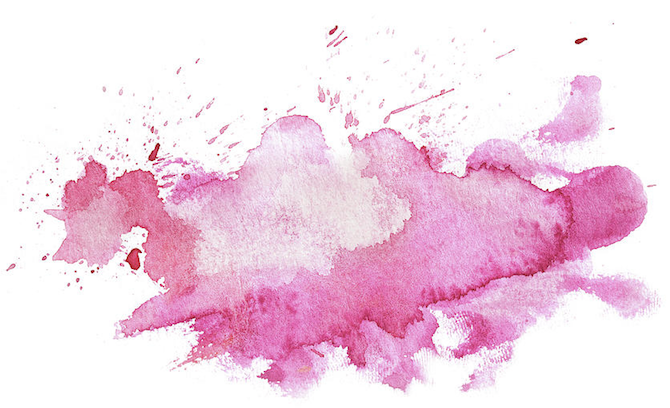
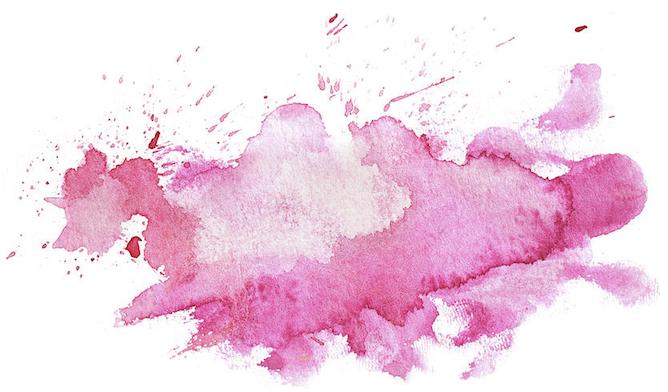
2 extra watermarks added

diff --git a/src/components/NavBar.styles.js b/src/components/NavBar.styles.js
@@ -18,56 +18,51 @@ export const styles = theme => ({
         marginTop: '15vh',
         position: "absolute",
         zIndex: "5",
-        // cursor: "pointer",
-        // transition: "all .2s ease-in-out",
-        // "&:hover": {
-        //     transform: "scale(1.1)",
-        // },
     },
     categoryOneImage: {
-        width: "14%",
-        marginTop: '11vh',
+        width: "18%",
+        marginTop: '8vh',
         position: "absolute",
         zIndex: "7",
         cursor: "pointer",
         transition: "all .2s ease-in-out",
-        marginLeft: "24vw",
+        marginLeft: "22vw",
         "&:hover": {
             transform: "scale(1.1)",
         },
     },
     categoryName: {
         fontFamily: "Caveat, cursive",
-        marginTop: '17vh',
-        fontSize: "32px",
+        marginTop: '16vh',
+        fontSize: "36px",
         position: "absolute",
-        marginLeft: "23vw",
+        marginLeft: "22vw",
         zIndex: "10",
         cursor: "pointer",
         transition: "all .2s ease-in-out",
         "&:hover": {
             transform: "scale(1.1)",
-            fontSize: "34px",
+            fontSize: "38px",
         },
     },
     categoryTwoImage: {
         width: "22%",
-        marginTop: '68vh',
+        marginTop: '66vh',
         position: "absolute",
         zIndex: "7",
         cursor: "pointer",
         transition: "all .2s ease-in-out",
-        marginLeft: "70vw",
+        marginLeft: "68vw",
         "&:hover": {
             transform: "scale(1.1)",
         },
     },
     categoryNameTwo: {
         fontFamily: "Caveat, cursive",
-        marginTop: '77vh',
+        marginTop: '75vh',
         fontSize: "54px",
         position: "absolute",
-        marginLeft: "71vw",
+        marginLeft: "69vw",
         zIndex: "10",
         cursor: "pointer",
         transition: "all .2s ease-in-out",
@@ -75,6 +70,21 @@ export const styles = theme => ({
             transform: "scale(1.1)",
             fontSize: "56px",
         },
+    },
+    categoryThreeImage: {
+        marginTop: '32vh',
+        position: "absolute",
+        zIndex: "7",
+        marginLeft: "70vw",
+        width: "10vw"
+    },
+    categoryFourImage: {
+        width: "34vh",
+        marginTop: '45vh',
+        position: "absolute",
+        zIndex: "7",
+        marginLeft: "16vw",
+        transform: "rotate(-45deg)"
     },
     name: {
         fontFamily: "Caveat, cursive",
@@ -130,7 +140,13 @@ export const styles = theme => ({
         justifyContent: "space-between"
     },
     icon: {
-        color: "rgb(28, 58, 228, .7)",
-        fontSize: "5vh"
+        color: "rgba(0,0,0,0.7)",
+        backgroundImage: "linear-gradient(to right, #e7fcfd, #10cfd5)",
+        fontSize: "5vh",
+        borderRadius: "5px",
+        transition: "all .2s ease-in-out",
+        "&:hover": {
+            transform: "scale(1.1)",
+        },
     }
 })

diff --git a/src/components/CategoryThree.jsx b/src/components/CategoryThree.jsx
@@ -1,0 +1,29 @@
+import React, { Component } from 'react';
+
+// MUI
+import { withStyles } from '@material-ui/core/styles';
+
+// Local
+import { styles } from "./NavBar.styles.js";
+
+class CategoryThree extends Component {
+    constructor(props) {
+        super(props);
+        this.state = {
+
+        }
+    }
+
+    render() {
+        const { classes } = this.props;
+
+        return (
+            <div>
+                <img className={classes.categoryThreeImage} src={require('./smallBlue.png')} alt="Other" />
+                {/* <span className={classes.categoryThreeName}>Professional Background</span> */}
+            </div>
+        );
+    }
+}
+
+export default withStyles(styles)(CategoryThree);

diff --git a/src/components/CategoryFour.jsx b/src/components/CategoryFour.jsx
@@ -1,0 +1,29 @@
+import React, { Component } from 'react';
+
+// MUI
+import { withStyles } from '@material-ui/core/styles';
+
+// Local
+import { styles } from "./NavBar.styles.js";
+
+class CategoryFour extends Component {
+    constructor(props) {
+        super(props);
+        this.state = {
+
+        }
+    }
+
+    render() {
+        const { classes } = this.props;
+
+        return (
+            <div>
+                <img className={classes.categoryFourImage} src={require('./biggerSpill.png')} alt="Other" />
+                {/* <span className={classes.categoryThreeName}>Professional Background</span> */}
+            </div>
+        );
+    }
+}
+
+export default withStyles(styles)(CategoryFour);

diff --git a/src/containers/App.js b/src/containers/App.js
@@ -7,6 +7,8 @@ import MainBackground from '../components/MainBackground';
 // import AboutMe from '../components/AboutMe';
 import CategoryOne from '../components/CategoryOne';
 import CategoryTwo from '../components/CategoryTwo';
+import CategoryThree from '../components/CategoryThree';
+import CategoryFour from '../components/CategoryFour';
 
 function App() {
   return (
@@ -15,7 +17,8 @@ function App() {
       <MainBackground />
       <CategoryOne />
       <CategoryTwo />
-      {/* <AboutMe /> */}
+      <CategoryThree />
+      <CategoryFour />
     </div>
   );
 }
